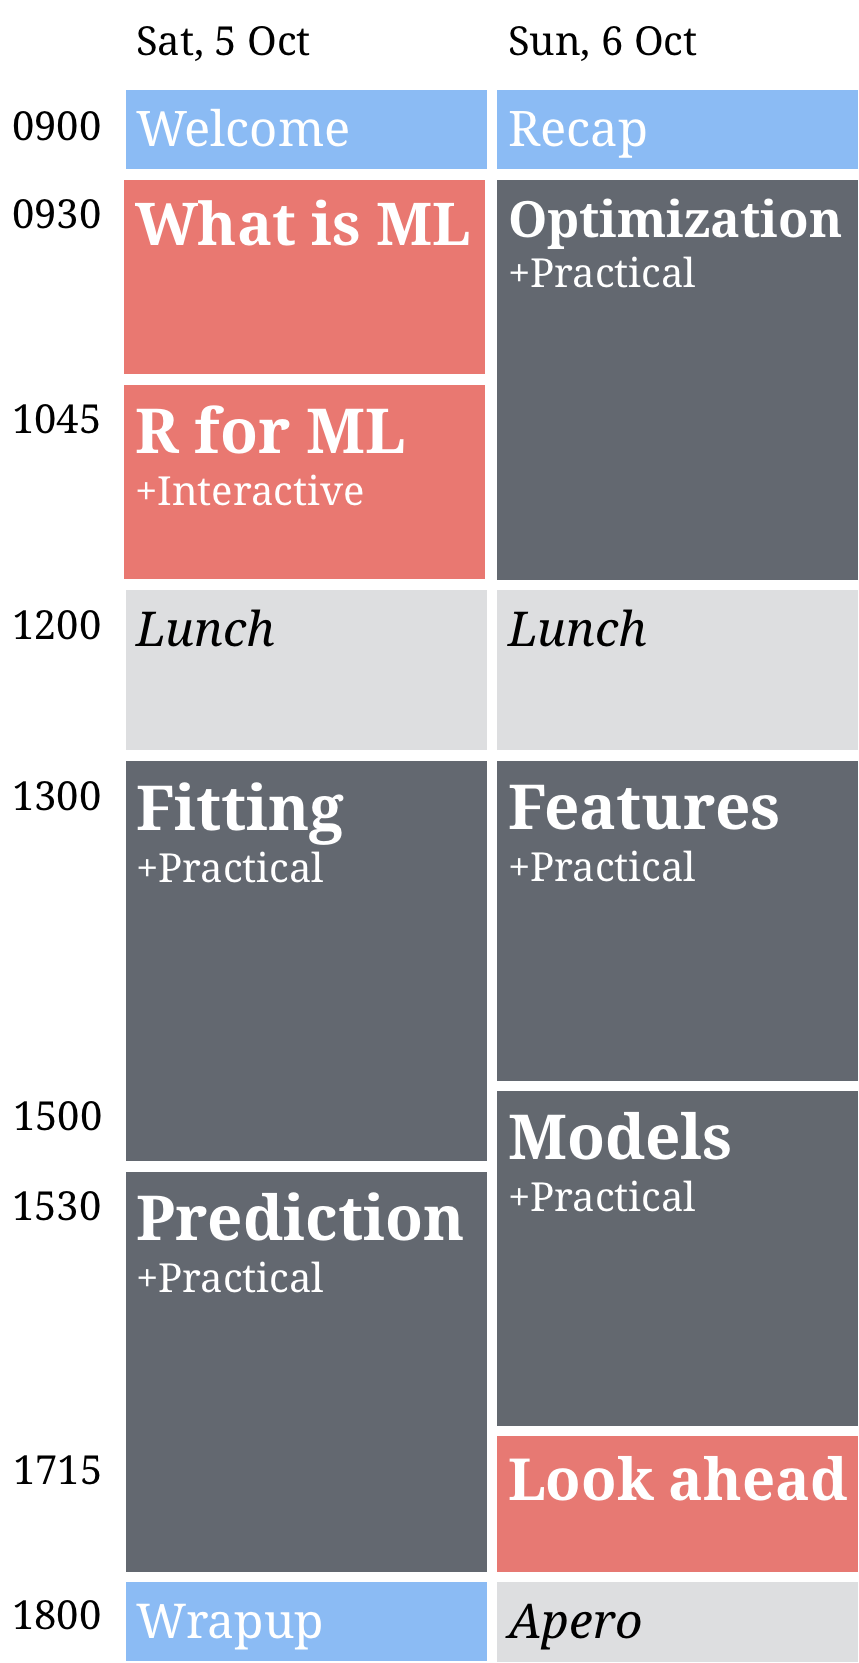
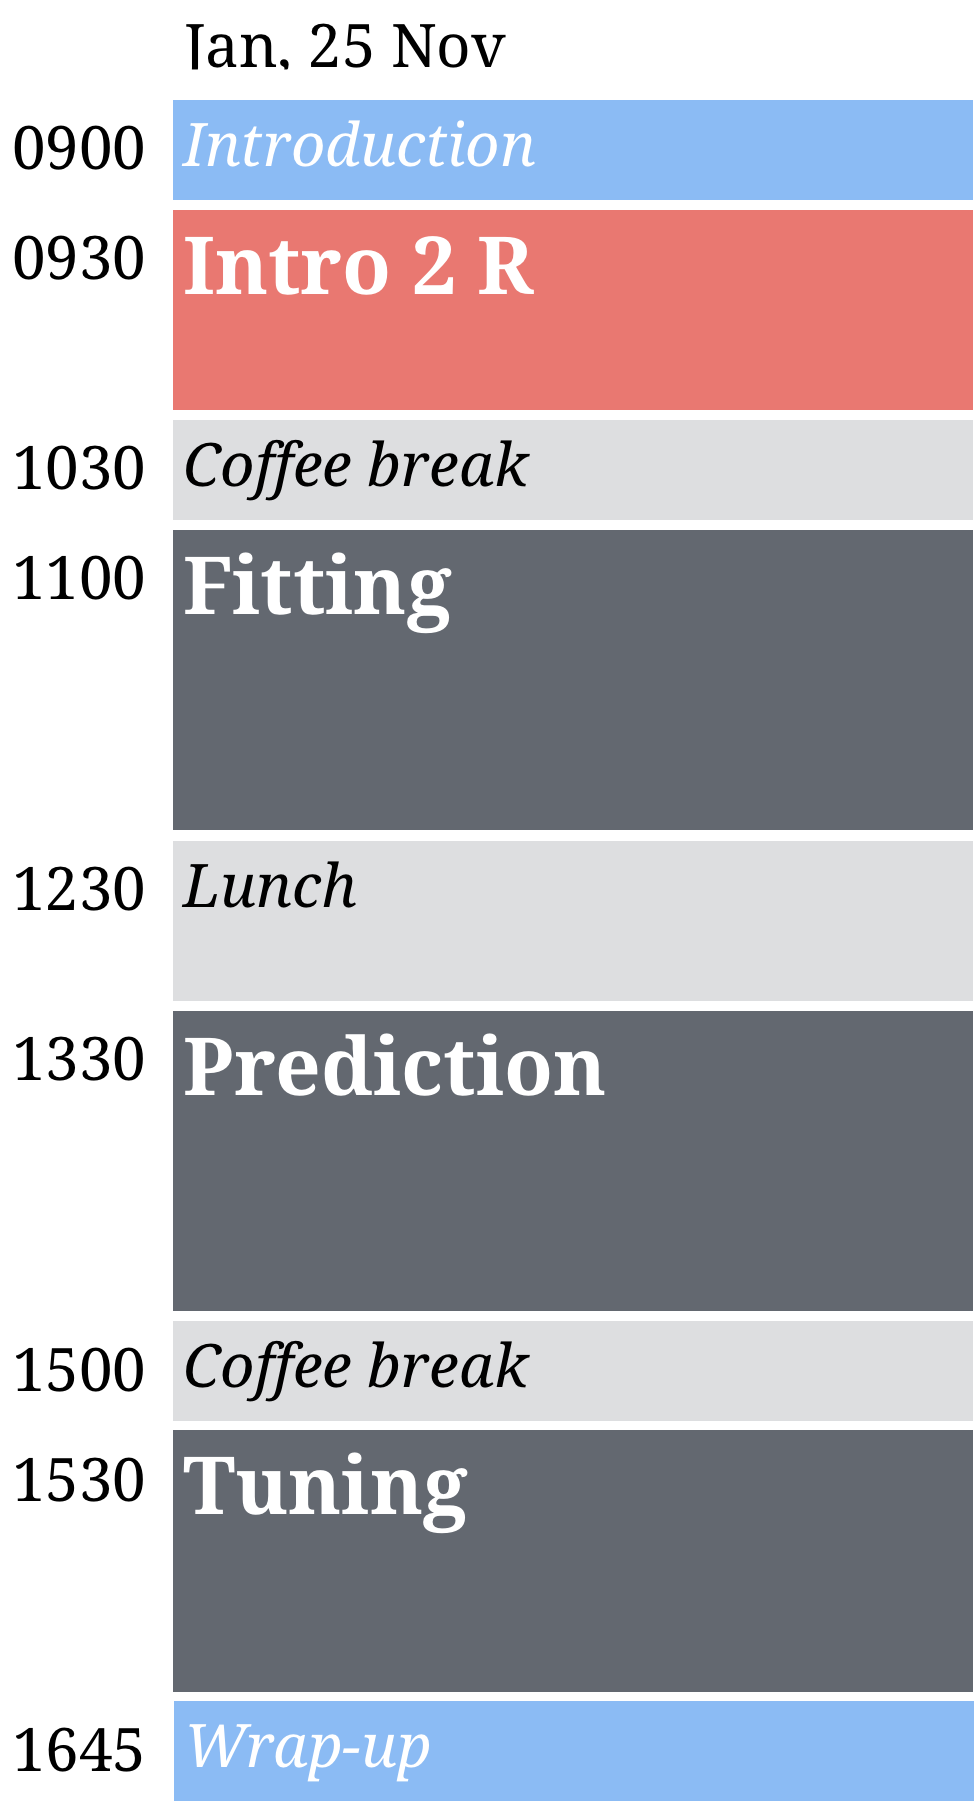
...

diff --git a/index.html b/index.html
@@ -246,11 +246,9 @@ $(document).ready(function () {
 </div>
 <div id="schedule" class="section level3">
 <h3>Schedule</h3>
-<!---
-<p align="left"><br>
-    <img border="0" alt="Schedule" src="https://therbootcamp.github.io/EDA_2019CSS/_sessions/Welcome/image/schedule.png" style="width:410px">
+<p align="left">
+<br> <img border="0" alt="Schedule" src="https://therbootcamp.github.io/AML_2020AMLD/_sessions/Introduction/image/schedule.png" style="width:410px">
 </p>
----->
 </div>
 
 
